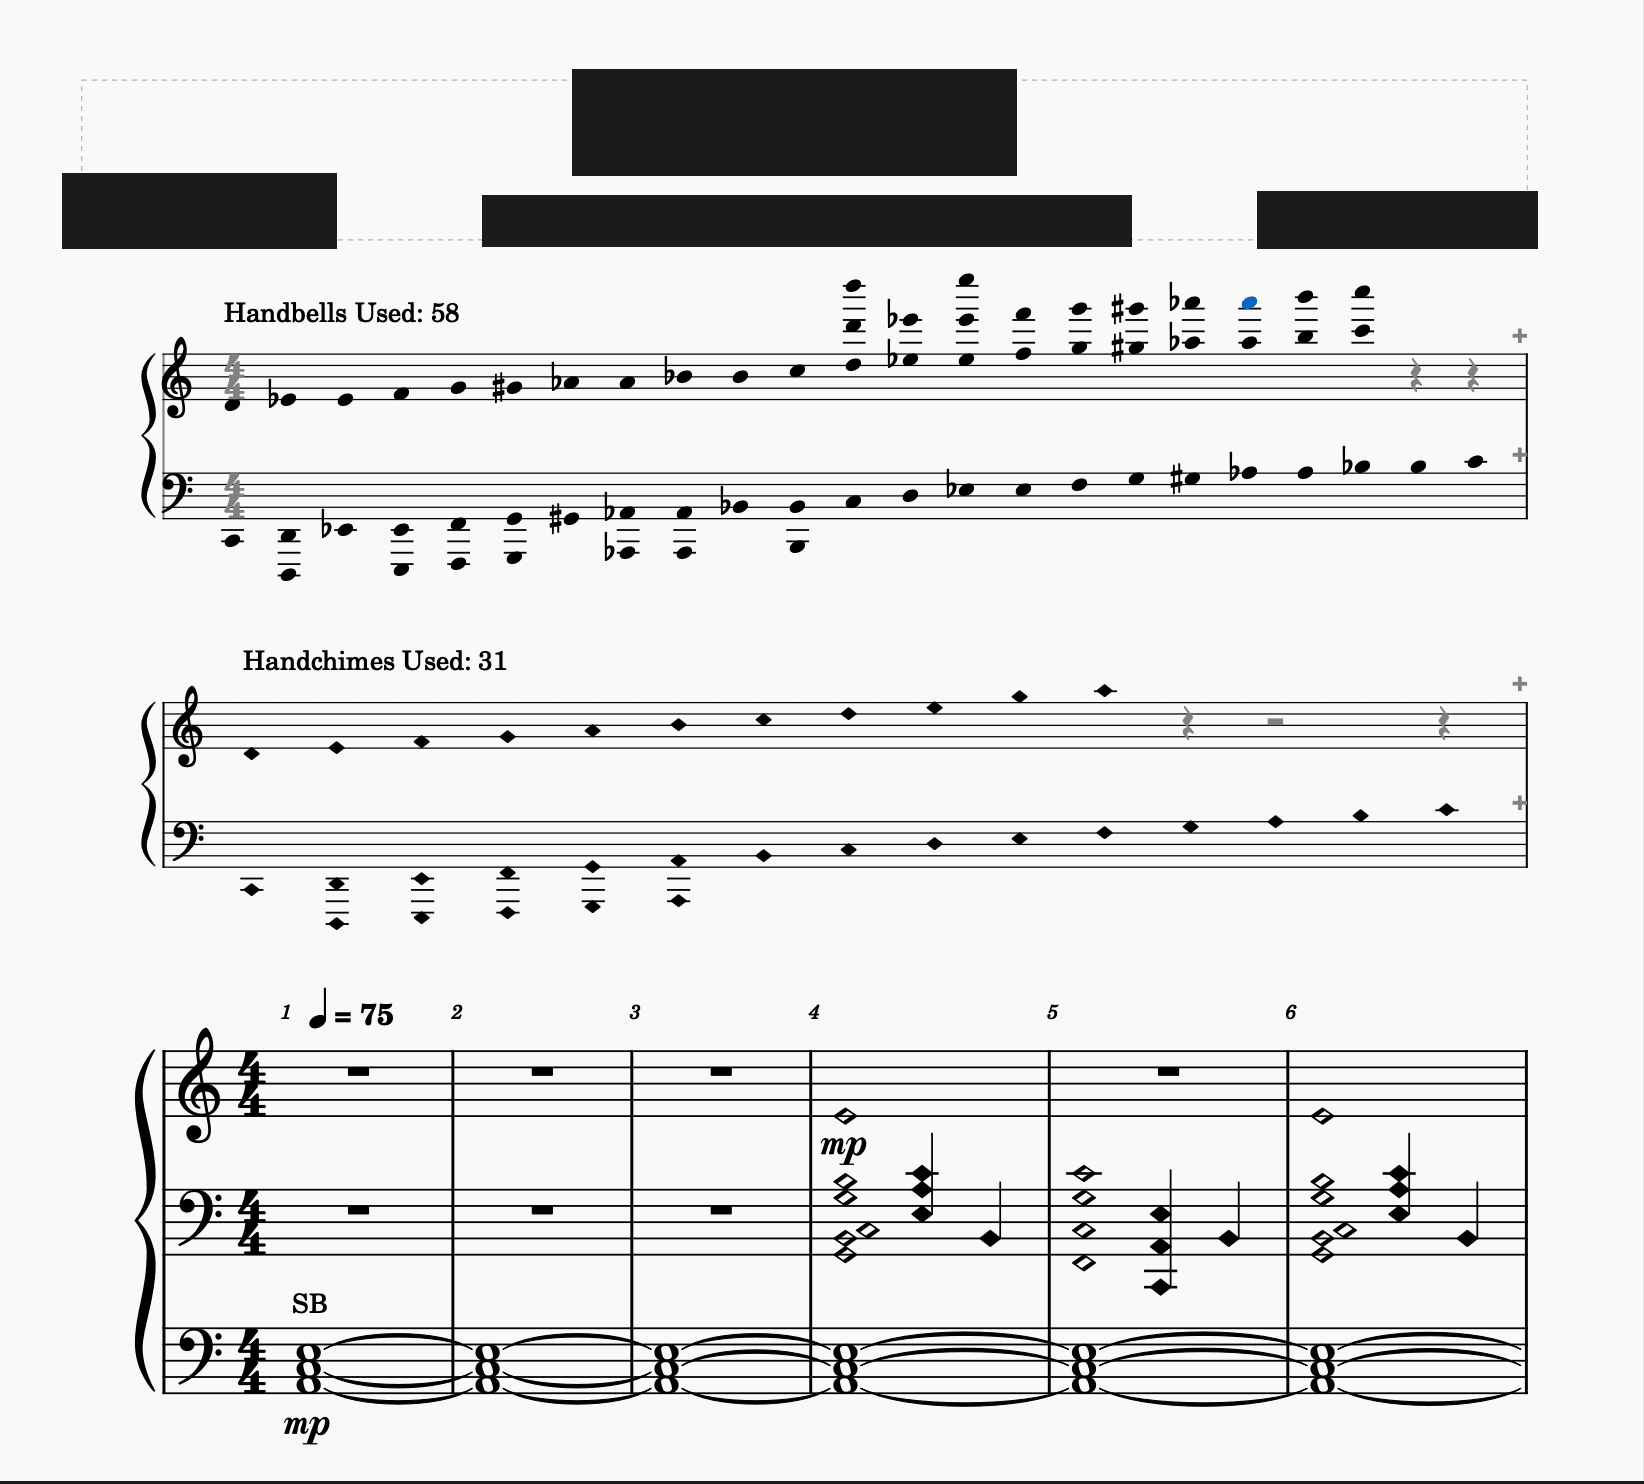
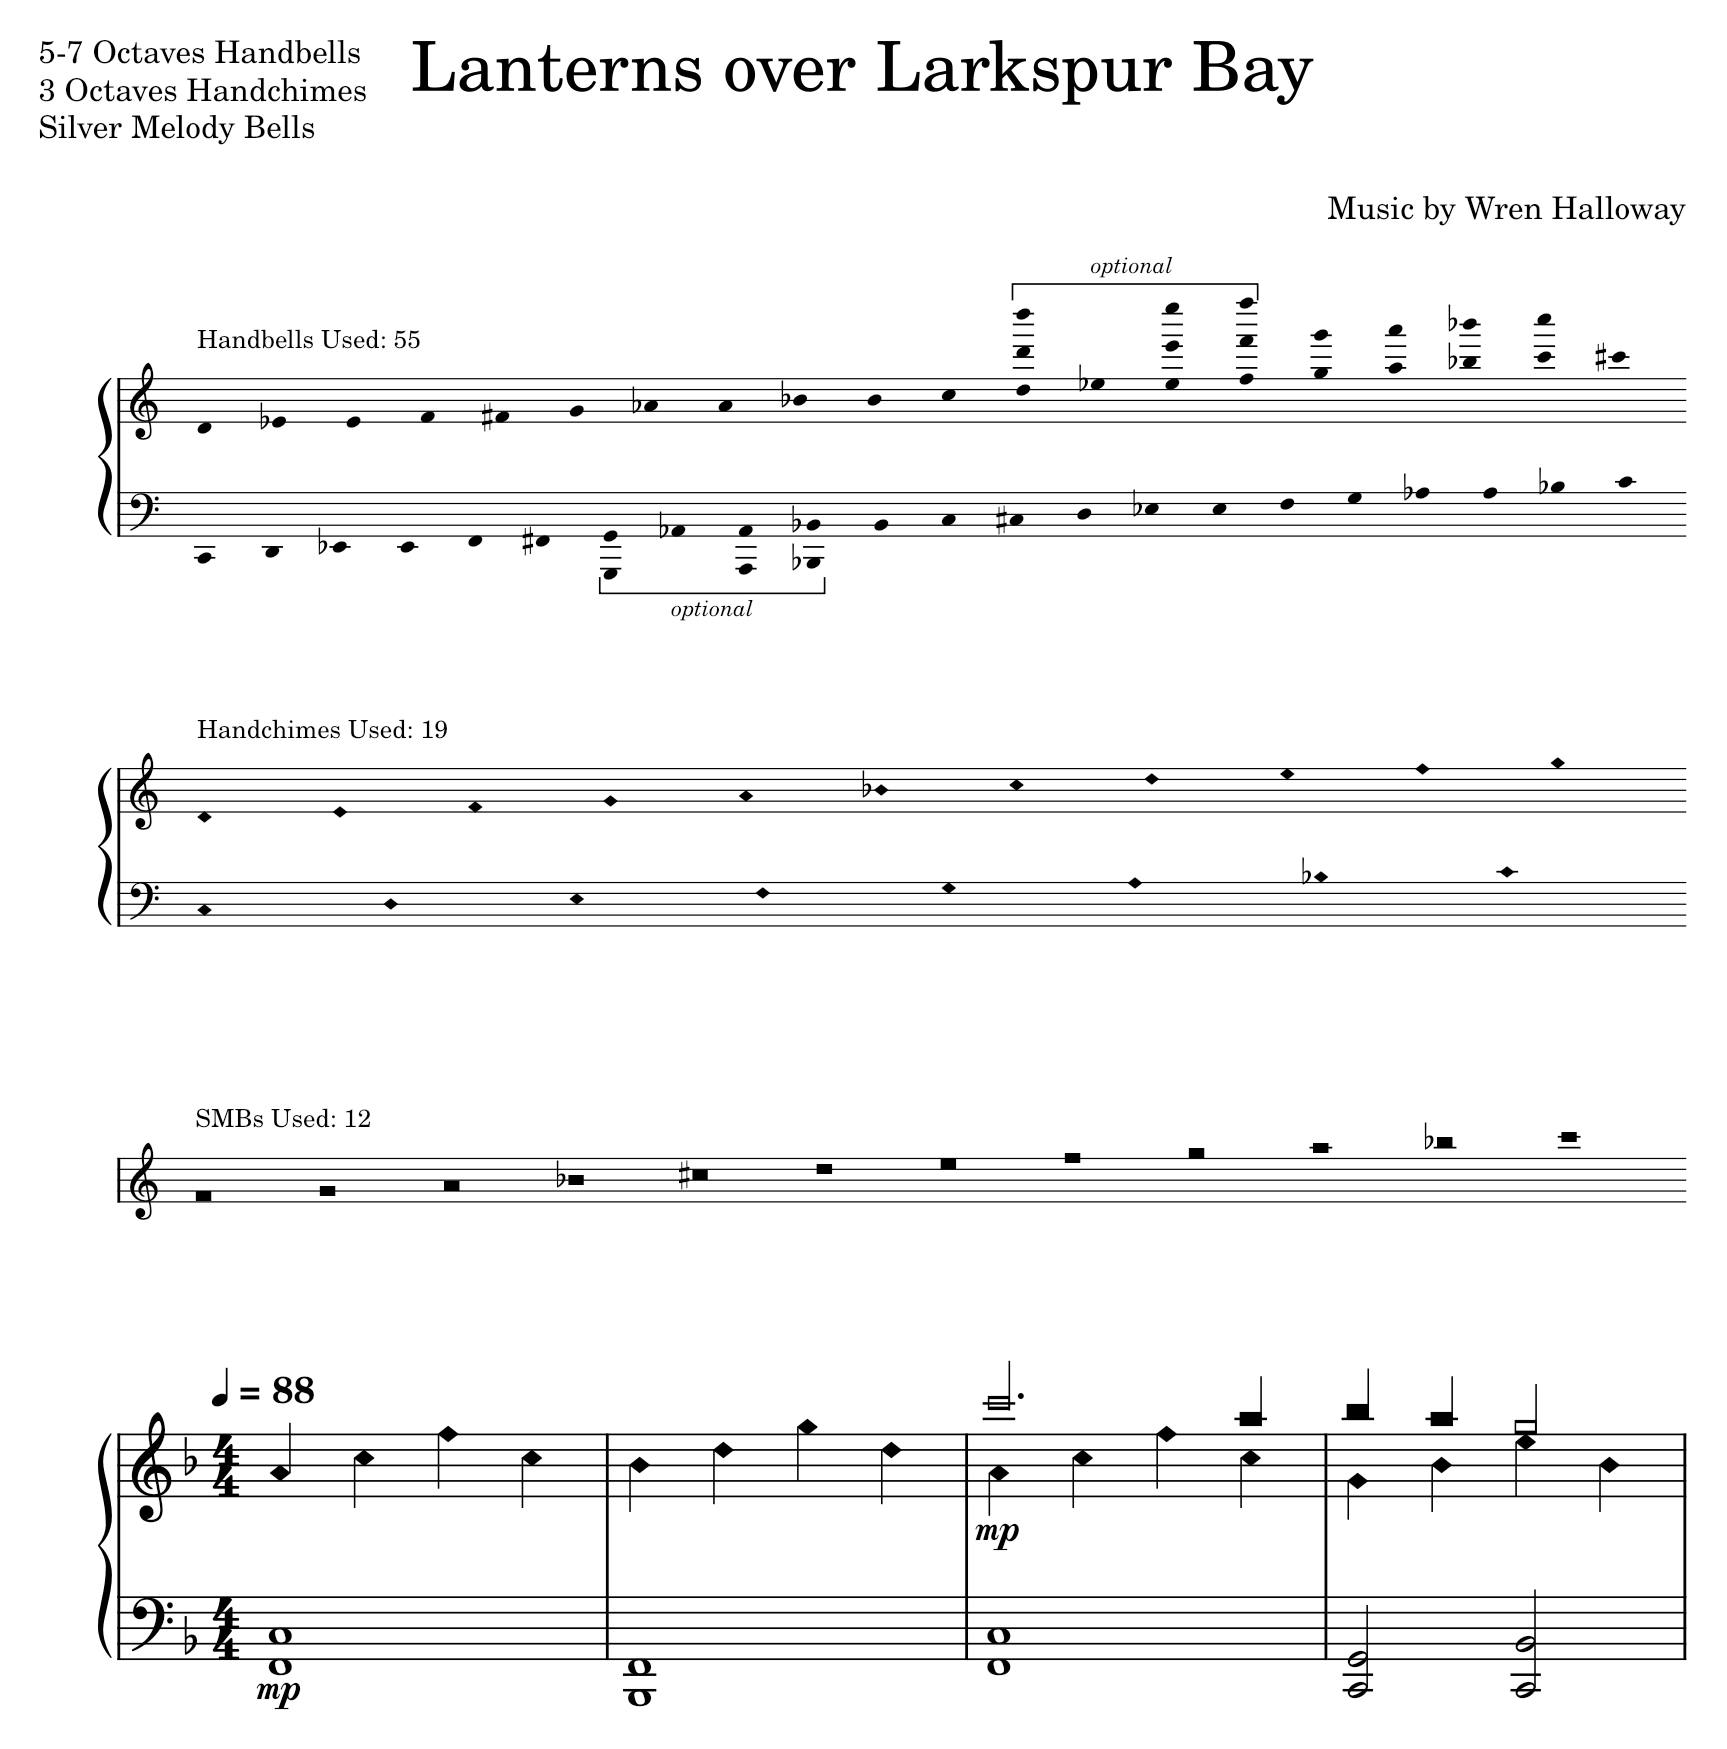
docs(readme): replace the screenshots with renders of the fixture

Changed region(s): [[0.0, 0.0, 1.0, 1.0]]

diff --git a/README.md b/README.md
@@ -37,15 +37,17 @@ staff from C2 to C9.
 
 An arrangement as it opens, straight onto the first system:
 
-![The first six bars of a handbell arrangement, opening on the music with no chart above it](screenshots/before.png)
+![The title and first four bars of a handbell piece, with no chart above the music](screenshots/before.png)
 
-And the same score after the extension has run, with a chart for the bells and
-another for the chimes above the music:
+And the same score after the extension has run, with a chart above the music
+for each kind of bell the piece uses. The score sets C3 to C8 as its required
+range, so the chart brackets the bells below and above it as optional:
 
-![The same score with two grand-staff charts inserted above the first system, one labelled Handbells Used: 58 and one labelled Handchimes Used: 31](screenshots/after.png)
+![The same score with three charts above the first system: Handbells Used: 55, with its lowest and highest bells bracketed as optional, then Handchimes Used: 19 and SMBs Used: 12](screenshots/after.png)
 
-The grey time signature, grey rests and one blue notehead are MuseScore's
-editing view showing you what is hidden or out of range. None of them print.
+Both images are rendered from `test/fixtures/readme-example.mscx`, a made-up
+piece, and `npm run screenshots` renders them again. Like the extension tests,
+it installs the extension into your MuseScore data directory first.
 
 ## Two ways to run it
 
